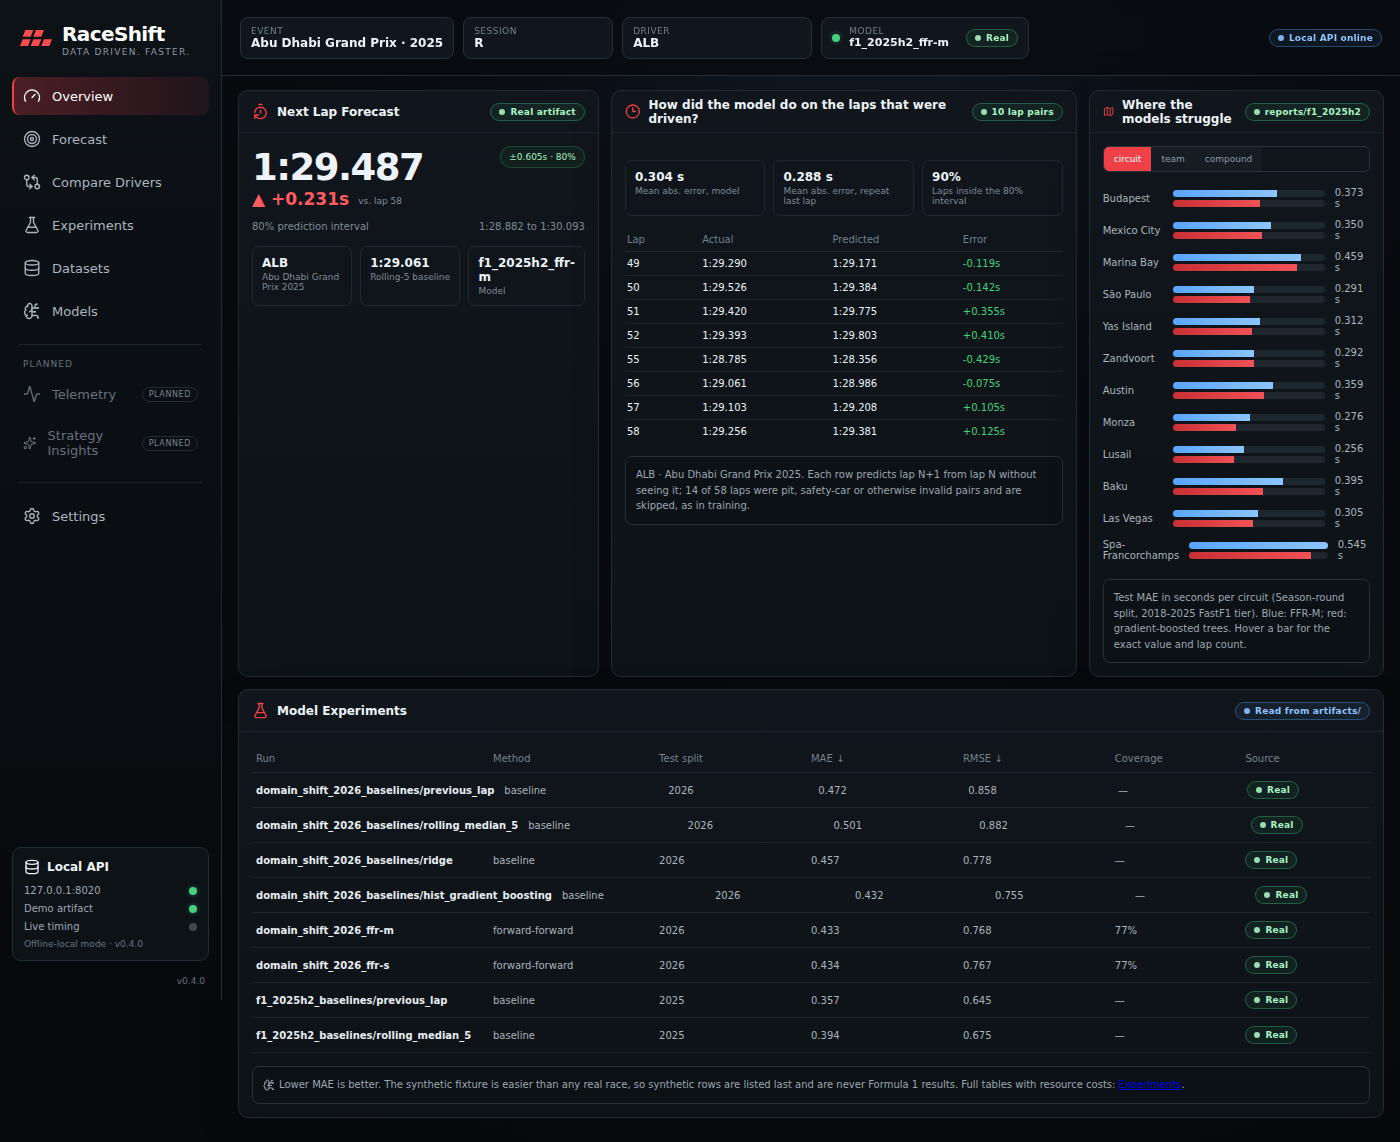
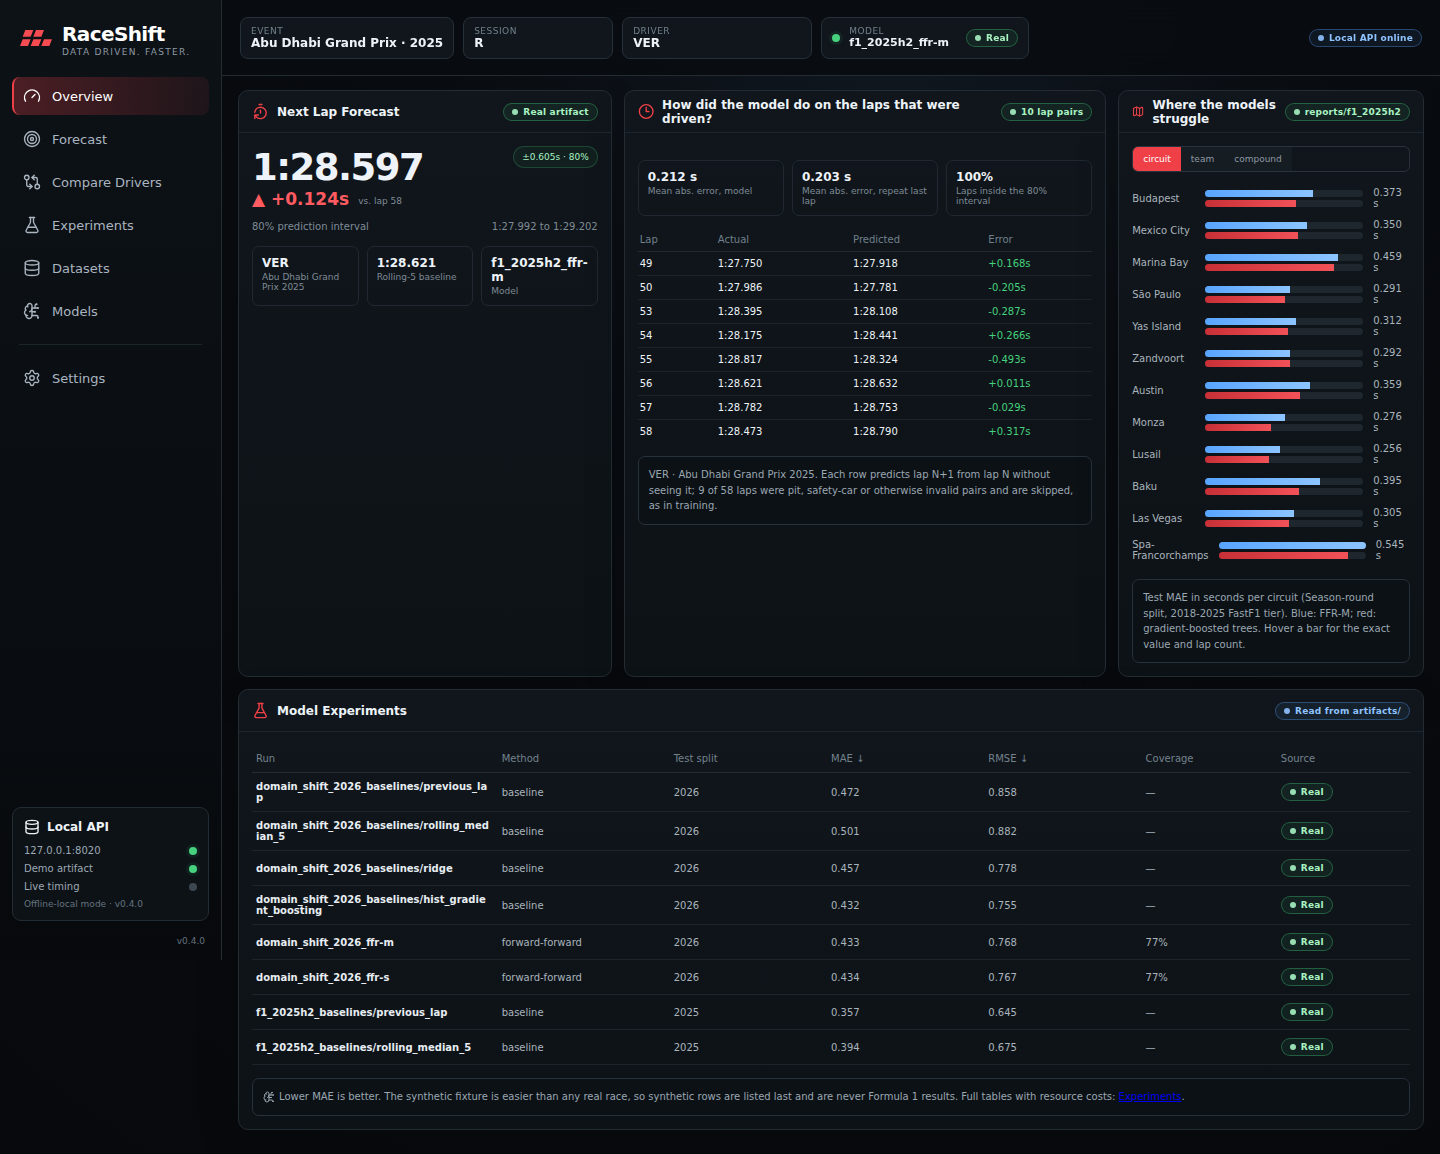
Add MIT license and showcase screenshots of every page

diff --git a/README.md b/README.md
@@ -23,6 +23,23 @@ peak memory, inference latency and artifact size next to naive, linear and tree 
 
 ![RaceShift forecast page](docs/images/forecast.png)
 
+<details>
+<summary><strong>More screenshots</strong> (real 2025 data, real FFR-M model, captured from the shipped setup)</summary>
+
+| Overview: forecast, backtest, where the models struggle | Compare Drivers: VER vs NOR, pace and model error side by side |
+| --- | --- |
+| ![Overview](docs/images/overview.png) | ![Compare Drivers](docs/images/compare.png) |
+
+| Experiments: every run under artifacts/ | Models: artifacts, baselines and exports |
+| --- | --- |
+| ![Experiments](docs/images/experiments.png) | ![Models](docs/images/models.png) |
+
+| Datasets: local imports and source registry | Settings: setup checklist and runtime |
+| --- | --- |
+| ![Datasets](docs/images/datasets.png) | ![Settings](docs/images/settings.png) |
+
+</details>
+
 ## Run it
 
 Python 3.11+ and Node.js 20+.
@@ -344,3 +361,8 @@ tests/                     Python tests (see `npm run test:py`)
 Foundation and real-data pipeline complete; Forward-Forward is evaluated against baselines on
 real races with chronological splits. Not yet done: wet-weather analysis in isolation,
 similarity-retrieval priors, endurance-series adapters, corner-telemetry Forward-Forward.
+
+## License
+
+MIT, see `LICENSE`. The shipped 2025 lap table is derived from the public F1 live-timing feed via
+FastF1 and is included for evaluating this project only; the licence does not extend to that data.
